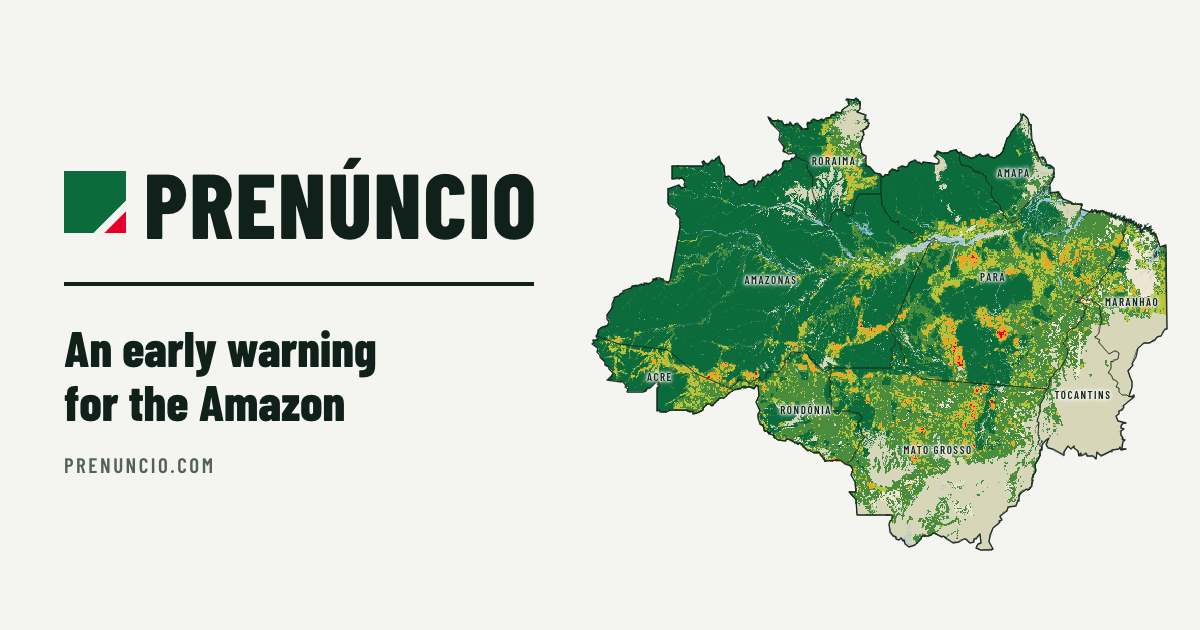
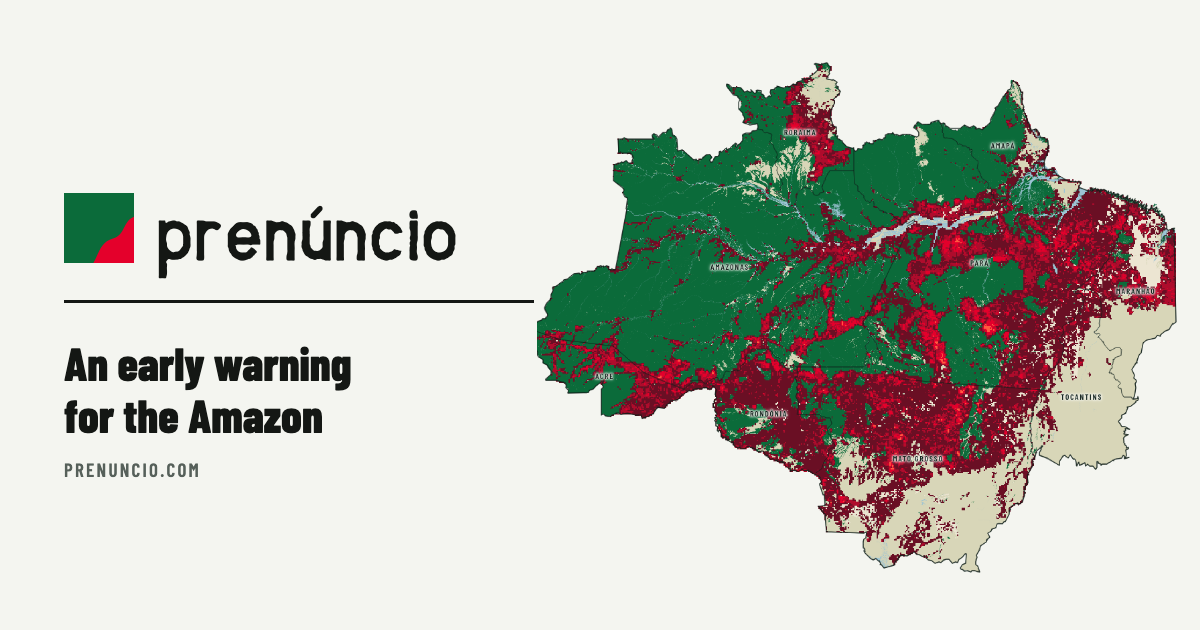
New mark: one curve in the square, and the name in lowercase MCBR Oficina

Changed region(s): [[0.0308, 0.0905, 0.9867, 0.9048], [0.0308, 0.5127, 0.3392, 0.6937], [0.0308, 0.7238, 0.185, 0.754]]

diff --git a/web/style.css b/web/style.css
@@ -50,8 +50,9 @@ button { font: inherit; color: inherit; background: none; border: 0; padding: 0;
 
 /* ---------- the header: the mark, then the story, About, the API and the language ---------- */
 #top { position: fixed; z-index: 40; top: 0; left: 0; right: 0; display: flex; align-items: center; height: var(--top); padding: 0 var(--pad); background: var(--soft); }
-.brand { display: flex; align-items: center; gap: 10px; margin-right: auto; font: 800 30px/1 var(--cond); letter-spacing: 0.02em; text-transform: uppercase; }
-.brand svg { width: 21px; height: 21px; }
+@font-face { font-family: "Oficina"; font-weight: 700; font-display: swap; src: url(fonts/mcbr-oficina-v3-display-bold.woff2) format("woff2"); }  /* the MCBR face, for the name only */
+.brand { display: flex; align-items: center; gap: 12px; margin-right: auto; font: 700 31px/1 "Oficina", var(--cond); letter-spacing: 0; text-transform: lowercase; }
+.brand svg { width: 24px; height: 24px; }
 .brand .f { fill: var(--green); }
 .brand .c { fill: var(--red); }
 #nav { display: flex; gap: 22px; }
@@ -533,7 +534,7 @@ canvas.cells { position: absolute; left: 0; top: 0; transition: opacity 0.25s; }
   :root[data-story]:not([data-has~="nav"]) { --peek: 213px; }                                  /* (in the story the bulletin rests without its hazards and its headline: nothing is for the hand yet, and the caption is the headline) */
   :root[data-story]:not([data-has~="chart"]) { --peek: 0px; }           /* (the bulletin has not come in yet) */
   .brand { font-size: 24px; gap: 8px; }
-  .brand svg { width: 17px; height: 15px; }
+  .brand svg { width: 19px; height: 19px; }
   #top { padding: 0 4px 0 16px; }
   #menu-btn { display: grid; place-items: center; width: 48px; height: 48px; }
   #menu-btn svg { width: 20px; height: 15px; }
@@ -771,7 +772,7 @@ canvas.cells { position: absolute; left: 0; top: 0; transition: opacity 0.25s; }
 :root:is([lang="ar"], [lang="hi"], [lang="bn"], [lang="zh"], [lang="ja"], [lang="ko"]) #say { font-size: clamp(24px, 2.4vw, 34px); }
 :root:is([lang="ar"], [lang="hi"], [lang="bn"], [lang="zh"], [lang="ja"], [lang="ko"]) #chartbox[data-as="dock"] #say { font-size: 19px; }
 :root:is([lang="ar"], [lang="hi"], [lang="bn"], [lang="zh"], [lang="ja"], [lang="ko"]) :is(.seg button, .pick button, #nav button) { font-size: 14.5px; font-weight: 600; }
-.brand { font-family: "Barlow Condensed", "Arial Narrow", sans-serif; }  /* the wordmark is Latin in every language */
+.brand { font-family: "Oficina", "Barlow Condensed", sans-serif; }  /* the wordmark is Latin in every language */
 @media (max-width: 860px) {
   :root:is([lang="ar"], [lang="hi"], [lang="bn"], [lang="zh"], [lang="ja"], [lang="ko"]) #story-line { font-size: 21px; line-height: 1.2; }
   :root:is([lang="ar"], [lang="hi"], [lang="bn"], [lang="zh"], [lang="ja"], [lang="ko"]) :is(#say, #chartbox[data-as="dock"] #say) { font-size: 19px; }

diff --git a/web/index.html b/web/index.html
@@ -36,11 +36,12 @@
 <link rel="preconnect" href="https://fonts.googleapis.com">
 <link rel="preconnect" href="https://fonts.gstatic.com" crossorigin>
 <link rel="stylesheet" href="https://fonts.googleapis.com/css2?family=Barlow+Condensed:wght@500;600;700;800&family=Barlow:wght@400;500;600&display=swap">
+<link rel="preload" href="fonts/mcbr-oficina-v3-display-bold.woff2" as="font" type="font/woff2" crossorigin>
 <link rel="stylesheet" href="style.css">
 </head>
 <body>
 <header id="top">
-  <div class="brand"><svg viewBox="0 0 20 20" aria-hidden="true"><path class="f" d="M0 0h20v9.5L9.5 20H0z"/><path class="c" d="M20 13v7h-7z"/></svg>Prenúncio</div>
+  <div class="brand"><svg viewBox="0 0 100 100" aria-hidden="true"><path class="f" d="M0 0H100V100H0Z"/><path class="c" d="M100 34C84 40 88 60 70 65C52 70 50 86 42 100H100Z"/></svg>Prenúncio</div>
   <nav id="nav">
     <button id="story-btn"></button>
     <button id="about-btn"></button>
